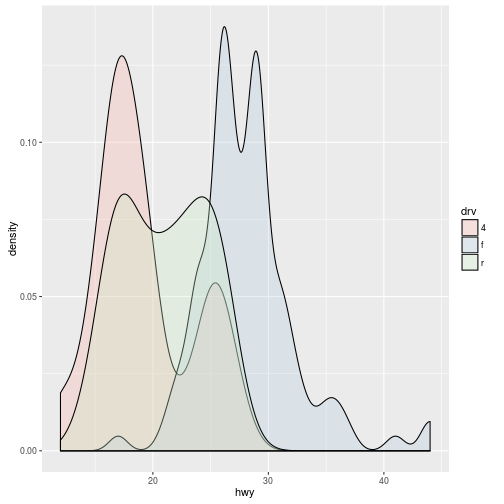
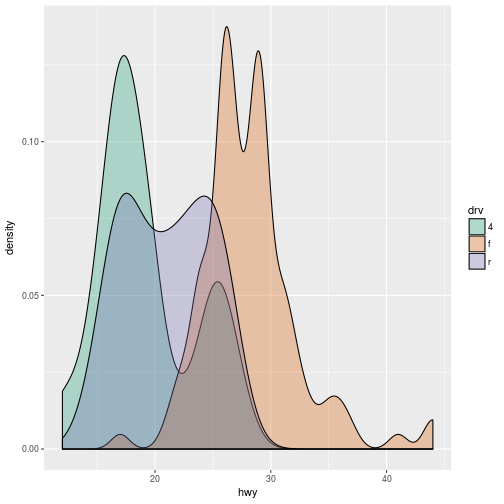
Updated plot post

diff --git a/_posts/2016-10-26-Plotting.md b/_posts/2016-10-26-Plotting.md
@@ -7,14 +7,14 @@ date: 2016-10-26
 time: '13:30'
 topic: plotting
 packages: '"ggplot2"'
-last_modified: 2016-10-23
+last_modified: 2017-01-16
 ---
 
 R has a beautiful set of plotting capabilities that allow it to produce
 publication-quality graphs very easily and quickly. A commonly used package for
-making graphs in R is called ggplot2. The reason it is so popular is because it
-has great documentation, tutorials, and cheatsheets (see the Resources links on
-the bottom), in addition to it being fairly easy to learn and use.
+making graphs in R is called ggplot2. This "Grammar of Graphics" package (hence 'gg')
+has become very popular beacuse it has great documentation, tutorials, and cheatsheets 
+(see the Resources links on the bottom), in addition to it being fairly easy to learn and use.
 
 So let's get started. Load up the package:
 
@@ -108,6 +108,12 @@ ggplot(swiss, aes(x = Education, y = Examination)) +
     geom_smooth()
 {% endhighlight %}
 
+
+
+{% highlight text %}
+#> `geom_smooth()` using method = 'loess'
+{% endhighlight %}
+
 ![plot of chunk smooth]({{ site.github.url }}/images/2016-10-26-Plotting/smooth-1.png)
 
 ... or a simple linear regression line:
@@ -155,6 +161,11 @@ ggplot(mpg, aes(x = drv, y = hwy)) +
 
 ![plot of chunk facet_boxplot]({{ site.github.url }}/images/2016-10-26-Plotting/facet_boxplot-1.png)
 
+The 'facet_grid()' function specifies which variable to sub-divide by - in this case 'cyl'.
+By coding (~ cyl), the figure will subdivide by columns, whereas if you coded it as 
+(cyl ~), it will subdivide by rows. 
+
+
 There are dozens of types of layers (`geom_`) that you can use and the
 documentation is incredible! So if there is a plot you want to make, you
 definitely can do it in R!
@@ -183,10 +194,61 @@ for palettes by running `?scale_fill_brewer` to look at the help file.
 {% highlight r %}
 ggplot(mpg, aes(x = hwy, fill = drv)) +
     geom_density(alpha = 0.3) +
-    scale_fill_brewer(palette = 'Pastel1')
+    scale_fill_brewer(palette = 'Dark2')
 {% endhighlight %}
 
 ![plot of chunk unnamed-chunk-3]({{ site.github.url }}/images/2016-10-26-Plotting/unnamed-chunk-3-1.png)
+
+Similarly, you can use the `scale_` function to make changes to the legend.
+
+
+{% highlight r %}
+ggplot(mpg, aes(x = hwy, fill = drv)) +
+    geom_density(alpha = 0.3) +
+    scale_fill_brewer(palette = 'Dark2') +
+      scale_fill_discrete(name = "drivetrain", 
+                      breaks = c("4", "f", "r"), 
+                      labels = c("Four wheel", 
+                                 "Front wheel", 
+                                 "Rear Wheel")) 
+{% endhighlight %}
+
+
+
+{% highlight text %}
+#> Scale for 'fill' is already present. Adding another scale for 'fill',
+#> which will replace the existing scale.
+{% endhighlight %}
+
+![plot of chunk unnamed-chunk-4]({{ site.github.url }}/images/2016-10-26-Plotting/unnamed-chunk-4-1.png)
+
+
+Using `labs` will allow you to modify or add titles to the figure.
+
+
+{% highlight r %}
+ggplot(mpg, aes(x = hwy, fill = drv)) +
+    geom_density(alpha = 0.3) +
+    scale_fill_brewer(palette = 'Dark2') +
+    ggplot(mpg, aes(x = hwy, fill = drv)) +
+    geom_density(alpha = 0.3) +
+    scale_fill_brewer(palette = 'Pastel1') +
+      scale_fill_discrete(name = "drivetrain", 
+                      breaks = c("4", "f", "r"), 
+                      labels = c("Four wheel", 
+                                 "Front wheel", 
+                                 "Rear Wheel")) +
+    labs(title = "Fuel Economy", 
+         x = "Engine Displacement", 
+         y = "Highway Mileage")
+{% endhighlight %}
+
+
+
+{% highlight text %}
+#> Error: Don't know how to add o to a plot
+{% endhighlight %}
+
 
 And to customize individual features of the plot, you use `theme`. The `theme`
 options are quite extensive, so if you want to look more into it, check out
@@ -200,6 +262,14 @@ bottom of the web document.
 ggplot(mpg, aes(x = hwy, fill = drv)) +
     geom_density(alpha = 0.3) +
     scale_fill_brewer(palette = 'Dark2') +
+      scale_fill_discrete(name = "drivetrain", 
+                      breaks = c("4", "f", "r"), 
+                      labels = c("Four wheel", 
+                                 "Front wheel", 
+                                 "Rear Wheel")) +
+        labs(title = "Fuel Economy", 
+             x = "Engine Displacement", 
+             y = "Highway Mileage") +
     theme(panel.border = element_blank(), # panel = background of the entire plot
           panel.background = element_blank(),
           panel.grid.major = element_line(colour = 'grey90'),
@@ -209,12 +279,58 @@ ggplot(mpg, aes(x = hwy, fill = drv)) +
           axis.line.x = element_line(colour = 'black'))
 {% endhighlight %}
 
-![plot of chunk unnamed-chunk-4]({{ site.github.url }}/images/2016-10-26-Plotting/unnamed-chunk-4-1.png)
+
+
+{% highlight text %}
+#> Scale for 'fill' is already present. Adding another scale for 'fill',
+#> which will replace the existing scale.
+{% endhighlight %}
+
+![plot of chunk unnamed-chunk-6]({{ site.github.url }}/images/2016-10-26-Plotting/unnamed-chunk-6-1.png)
+
+
+Another example:
+
+
+{% highlight r %}
+ggplot(mpg, aes(displ, hwy)) +
+  geom_point(aes(colour = drv)) +
+  geom_smooth(method = "lm") +
+  labs(title = "Fuel Economy", 
+       x = "Engine Displacement", 
+       y = "Highway Mileage") +
+  theme_bw(base_family = "Times") +
+  theme(title = element_text(size = 18), 
+        axis.title = element_text(size = 14), 
+        axis.text = element_text(size = 20)) +
+  annotate("text", x = 6, y = 40, label = "p <0.05", 
+           size = 7)
+{% endhighlight %}
+
+![plot of chunk unnamed-chunk-7]({{ site.github.url }}/images/2016-10-26-Plotting/unnamed-chunk-7-1.png)
+
+
+Finally, assign your figure code a name and save it as an individual file using `ggsave`.
+
+
+{% highlight r %}
+ggsave("C:/Users/identify-the-path-you-want-to-save-in/nameyourfigure.png", nameoffigureyouassigned,
+       device = "png", dpi = 600, width = 7, height = 8)
+{% endhighlight %}
+
+
+
+{% highlight text %}
+#> Error in grid.draw(plot): object 'nameoffigureyouassigned' not found
+{% endhighlight %}
+
 
 # Resources:
 
 - [ggplot2 cheatsheet](https://www.rstudio.com/wp-content/uploads/2015/03/ggplot2-cheatsheet.pdf) 
 (in RStudio 'Help -> Cheatsheets -> Data Visualization')
 - [ggplot2 documentation](http://docs.ggplot2.org/current/)
+- [ggplot2 book](http://www.cookbook-r.com/Graphs/ )
 - [Tutorial from a course](http://tutorials.iq.harvard.edu/R/Rgraphics/Rgraphics.html)
 - [DataCamp tutorials](https://www.datacamp.com/courses/data-visualization-with-ggplot2-1)
+- [YouTube videos](https://www.youtube.com/watch?v=HeqHMM4ziXA)
